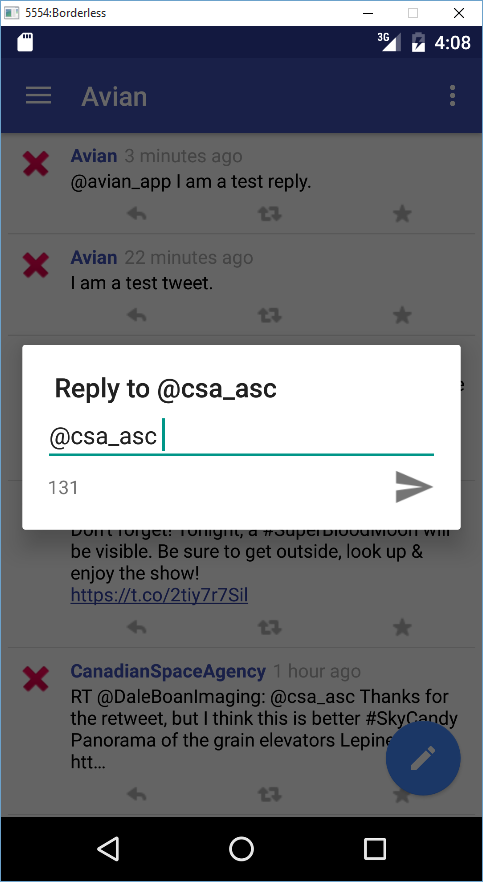
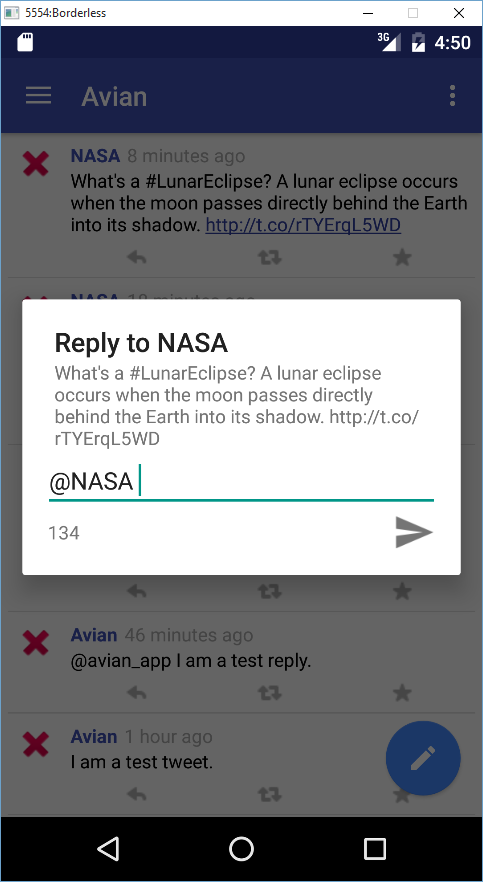
Show parent tweet in the ComposeActivity if replying to a tweet

diff --git a/app/src/main/java/ca/ianp/avian/activity/ComposeActivity.kt b/app/src/main/java/ca/ianp/avian/activity/ComposeActivity.kt
@@ -9,6 +9,7 @@ import android.text.Editable
 import android.text.TextWatcher
 import android.text.format.DateUtils
 import android.util.Log
+import android.view.View
 import android.view.ViewGroup
 import ca.ianp.avian.R
 import ca.ianp.avian.data.Tweet
@@ -43,24 +44,28 @@ public class ComposeActivity : AppCompatActivity() {
         twitter = Utilities.getTwitterInstance(this)
 
         val extras: Bundle? = getIntent().getExtras()
-        var tweetId: Long = -1
-        var tweetAuthorName: String? = null
-        var tweetAuthorScreenName: String? = null
+        var parentTweetId: Long = -1
+        var parentTweetAuthorName: String? = null
+        var parentTweetAuthorScreenName: String? = null
 
         // Get parent tweet details if replying to a tweet and prepopulate the reply box
         if (extras != null) {
-            tweetId = extras.getLong(Constants.EXTRA_TWEET_ID)
-            tweetAuthorName = extras.getString(Constants.EXTRA_TWEET_AUTHOR_NAME)
-            tweetAuthorScreenName = extras.getString(Constants.EXTRA_TWEET_AUTHOR_SCREEN_NAME)
+            parentTweetId = extras.getLong(Constants.EXTRA_TWEET_ID)
+            parentTweetAuthorName = extras.getString(Constants.EXTRA_TWEET_AUTHOR_NAME)
+            parentTweetAuthorScreenName = extras.getString(Constants.EXTRA_TWEET_AUTHOR_SCREEN_NAME)
+
+            // Show the parent tweet's text
+            parent_tweet.setText(extras.getString(Constants.EXTRA_TWEET_CONTENT))
+            parent_tweet.setVisibility(View.VISIBLE)
 
             // Prepopulate the parent tweet's author's screen name
-            compose_tweet_box.setText("@" + tweetAuthorScreenName + " ")
+            compose_tweet_box.setText("@" + parentTweetAuthorScreenName + " ")
 
             // Set the cursor to the end of the text
             compose_tweet_box.setSelection(compose_tweet_box.length())
 
             // Update the dialog title
-            setTitle(getString(R.string.compose_tweet_reply) + " " + tweetAuthorName)
+            setTitle(getString(R.string.compose_tweet_reply) + " " + parentTweetAuthorName)
         }
 
         // Action to take when the user clicks the send tweet button
@@ -69,7 +74,7 @@ public class ComposeActivity : AppCompatActivity() {
 
             // Only send tweets that actually have content
             if (tweetContent.trim().length() > 0) {
-                tweetSender = SendTweet(tweetId, tweetAuthorScreenName, tweetContent)
+                tweetSender = SendTweet(parentTweetId, parentTweetAuthorScreenName, tweetContent)
                 tweetSender!!.execute()
             }
         }

diff --git a/app/src/main/java/ca/ianp/avian/adapter/TimelineAdapter.kt b/app/src/main/java/ca/ianp/avian/adapter/TimelineAdapter.kt
@@ -46,6 +46,7 @@ public class TimelineAdapter(val tweets: List<Tweet>) : RecyclerView.Adapter<Tim
             composeIntent.putExtra(Constants.EXTRA_TWEET_ID, tweet.id)
             composeIntent.putExtra(Constants.EXTRA_TWEET_AUTHOR_NAME, tweet.authorName)
             composeIntent.putExtra(Constants.EXTRA_TWEET_AUTHOR_SCREEN_NAME, tweet.authorScreenName)
+            composeIntent.putExtra(Constants.EXTRA_TWEET_CONTENT, tweet.content)
 
             context!!.startActivity(composeIntent)
         }

diff --git a/app/src/main/java/ca/ianp/avian/util/Constants.kt b/app/src/main/java/ca/ianp/avian/util/Constants.kt
@@ -23,6 +23,7 @@ public object Constants {
     public val EXTRA_TWEET_ID: String = "tweet_id"
     public val EXTRA_TWEET_AUTHOR_NAME: String = "tweet_author_name"
     public val EXTRA_TWEET_AUTHOR_SCREEN_NAME: String = "tweet_author_screen_name"
+    public val EXTRA_TWEET_CONTENT: String = "tweet_content"
 
     public val INTENT_OAUTH_RESULT: Int = 0x100;
 
